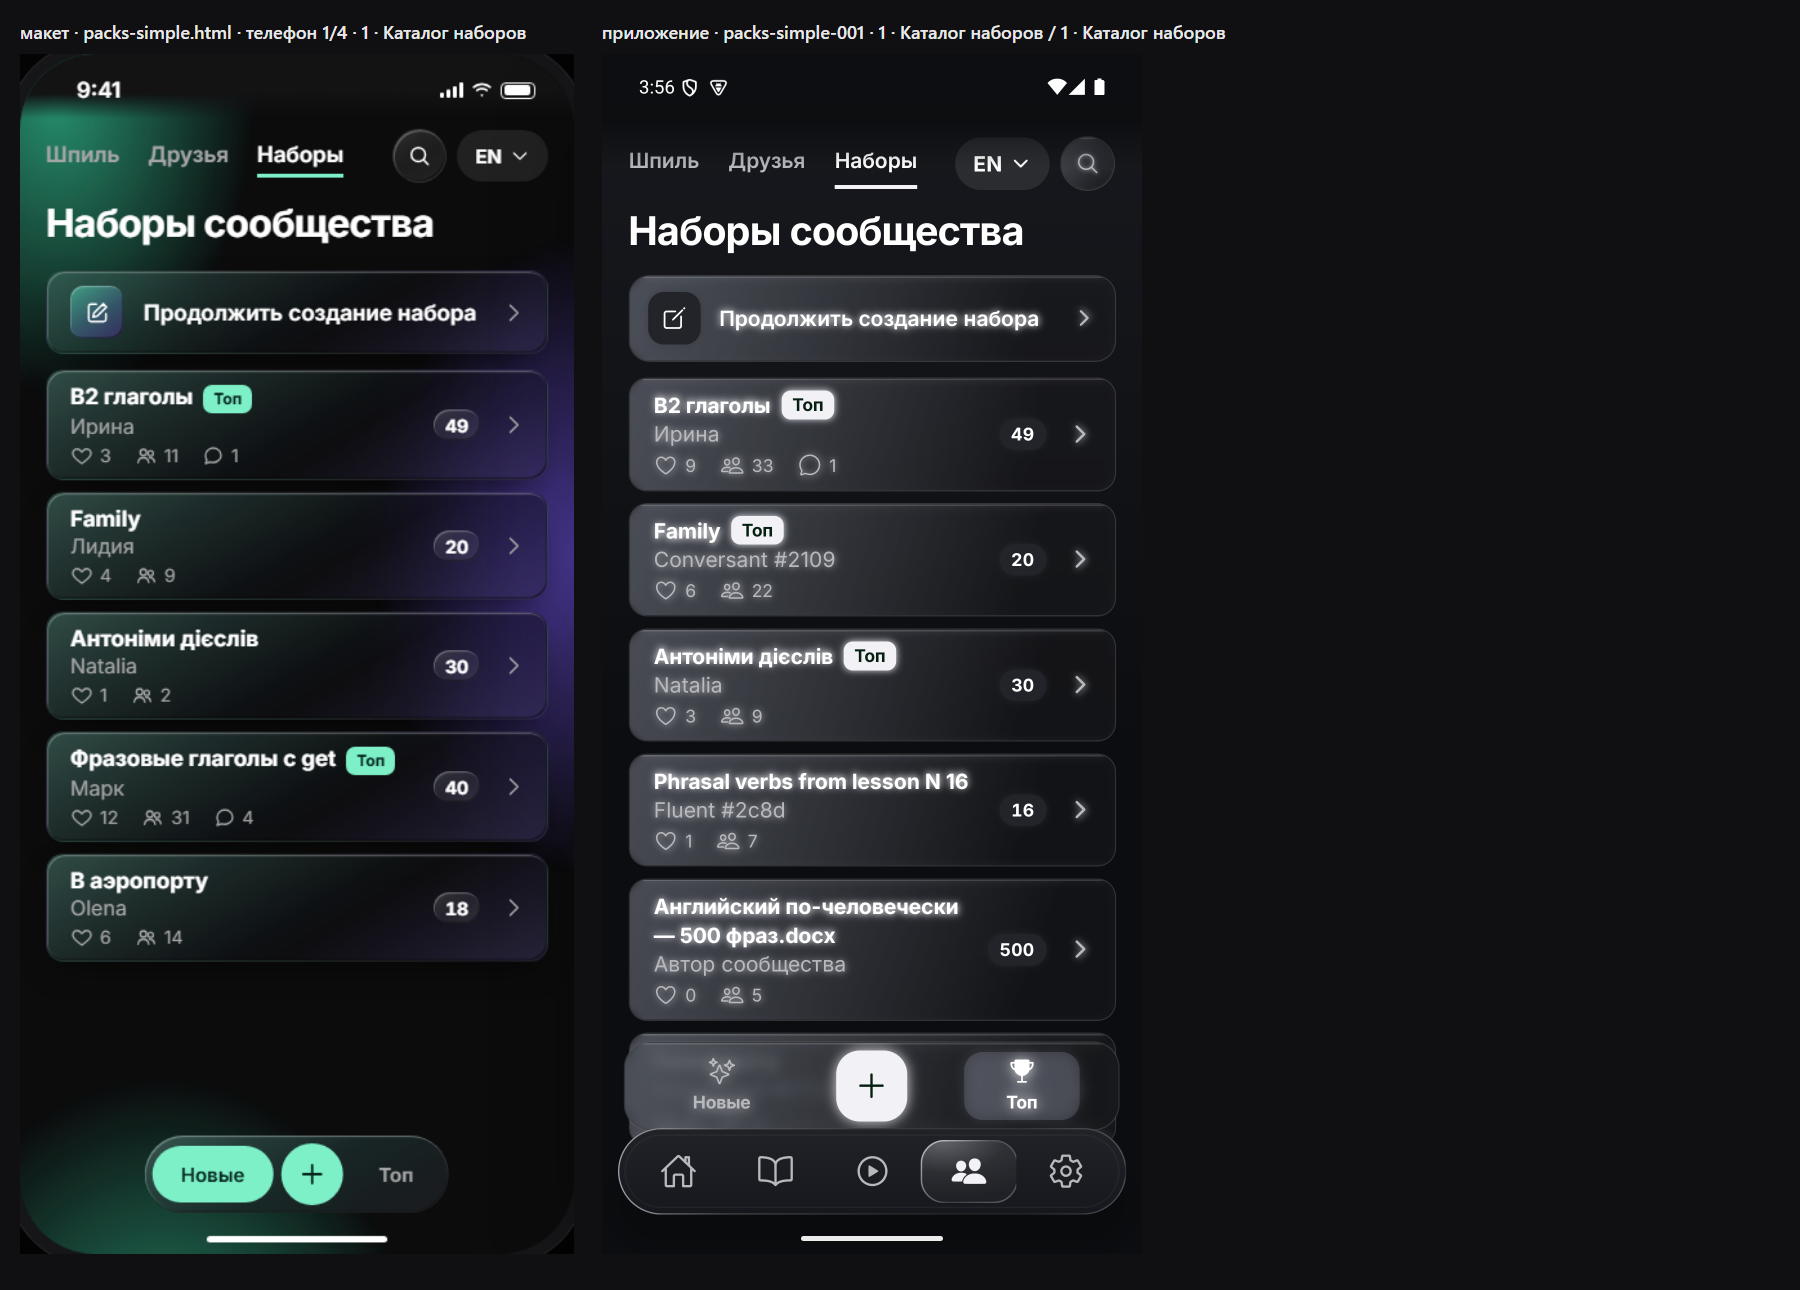
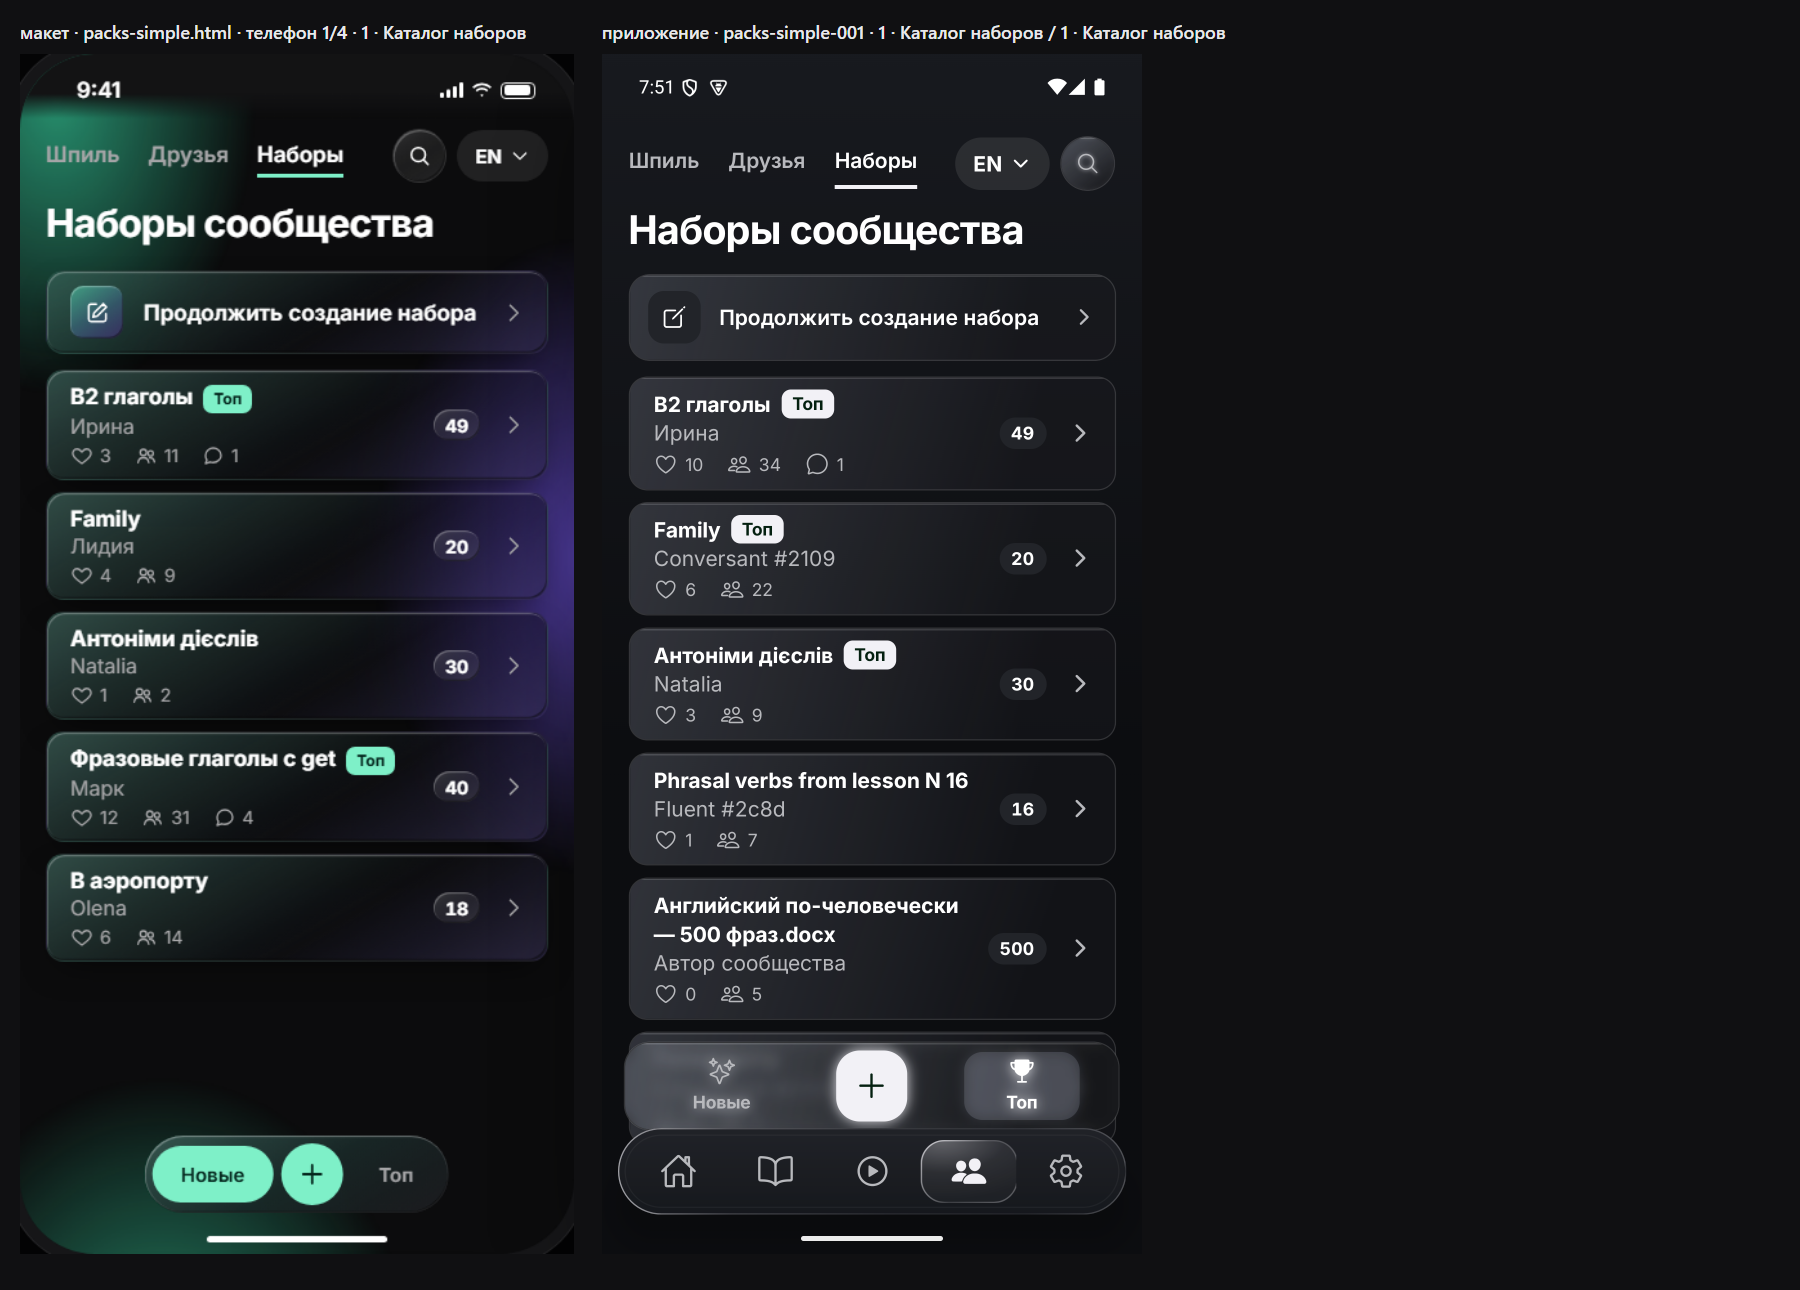
parity(packs-simple-001): убран белый ореол текста в строках каталога (Android dimezisBlurView)

Changed region(s): [[0.3422, 0.155, 0.5911, 0.8062], [0.5289, 0.155, 0.56, 0.186], [0.4667, 0.155, 0.4978, 0.186]]

diff --git a/app/flashcards/FlashcardsCategoryHub.tsx b/app/flashcards/FlashcardsCategoryHub.tsx
@@ -85,8 +85,12 @@ type CatalogGlassTokens = ReturnType<typeof liquidGlassTokens>;
 
 function CatalogTileGlass({ g }: { g: CatalogGlassTokens }) {
   return <View pointerEvents="none" style={StyleSheet.absoluteFill}>
+    {/* зачем (сверка packs-simple-001, 04.10, проверено на эмуляторе): на Android dimezisBlurView захватывает
+        текст самой строки и кладёт под него размытую копию — вокруг «Продолжить создание набора», «Топ», имени
+        автора был белый ореол, которого нет в макете. Без этого метода размытие на Android не рисуется (под строкой
+        однотонный фон — размывать нечего), ореол исчезает; iOS не меняется. */}
     <BlurView intensity={Platform.OS === 'android' ? 6 : 12} blurReductionFactor={4}
-      experimentalBlurMethod={Platform.OS === 'android' ? 'dimezisBlurView' : 'none'}
+      experimentalBlurMethod="none"
       tint="systemUltraThinMaterialDark" style={StyleSheet.absoluteFill} />
     <LinearGradient colors={[g.selected, 'transparent']} start={{ x: 0, y: 0 }} end={{ x: 0.8, y: 1 }} style={StyleSheet.absoluteFill} />
     <View style={{ height: 1, backgroundColor: g.glassEdge }} />

diff --git a/docs/phraseman-2.0/evidence/parity/SVERKA_LOG.md b/docs/phraseman-2.0/evidence/parity/SVERKA_LOG.md
@@ -205,3 +205,7 @@ practice-002 «верный ответ» не снят: таймер блица 
 ### 🔴 Логика сессии отработки (12 ошибок → «0/1»)
 - Выбрано «Все 12», сессия состоит из ОДНОГО задания; после неверного ответа + «Дальше» то же задание повторилось; после верного — итог «0/1 верно» (верный повтор не засчитан), «Ещё повторить 1», «Ещё 1».
 Файл: app/mistake_practice_session.tsx, components/mistake-practice/MistakeSessionFinale.tsx (сессия 3).
+
+### packs-simple-001 · Каталог наборов (пересъёмка) — ИСПРАВЛЕНО: белый ореол у текста строк
+Причина подтверждена пробой на эмуляторе: Android dimezisBlurView в CatalogTileGlass захватывал текст строки. Размытие строк на Android выключено (app/flashcards/FlashcardsCategoryHub.tsx), сторож flashcards_community_liquid_source_contract обновлён (PASS).
+Остались (не мои): 1) порядок в шапке — макет «лупа, EN ▾», приложение «EN ▾, лупа»; 2) нижняя панель «Новые · + · Топ»: в макете компактная плавающая пилюля, «Новые» — залитая пилюля, «+» — круг, без значков; в приложении — широкая панель со значками над подписями, «+» — квадрат, активная «Топ» — блок; 3) плашка «Топ» стоит у всех (данные топ-лайков).

diff --git a/docs/work/tasks/parity-kit-liquid-glass.md b/docs/work/tasks/parity-kit-liquid-glass.md
@@ -51,3 +51,6 @@ Governance-ID: TG-B42BE230DCA8
 
 Governance-ID: TG-D64A3791D1A1
 (learn-004: футер «Нашёл ошибку?» скрыт при пустом поиске — app/(tabs)/lessons.tsx; сторожа lessons_* PASS)
+
+Governance-ID: TG-8BA51DC640FB
+(ореол текста в каталоге наборов — FlashcardsCategoryHub.tsx; сторож community_liquid обновлён)
